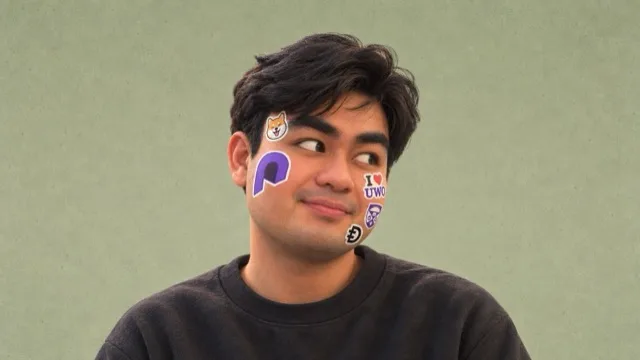
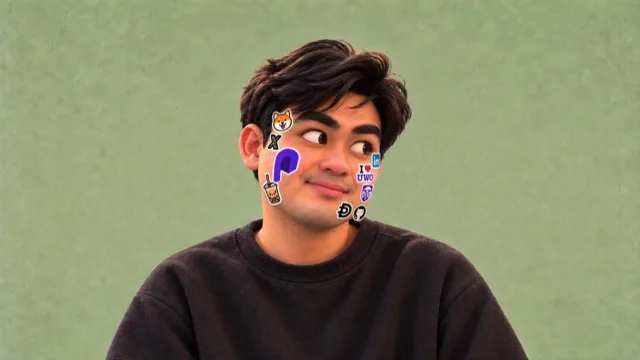
Portrait v2 with nine sticker hotspots including socials and Digital Dash

diff --git a/src/content/stickers.ts b/src/content/stickers.ts
@@ -22,9 +22,15 @@ export type Sticker = {
 }
 
 export const STICKERS: Sticker[] = [
-  { label: 'Penseum', href: 'https://penseum.com', x: 42.6, y: 48.2, w: 7, h: 13.5, hotspot: true },
-  { label: 'Doppel Health', href: 'https://doppel.health/', x: 55.2, y: 65, w: 3.6, h: 6.4, hotspot: true },
-  { label: 'Western University', href: 'https://www.uwo.ca/', x: 58.4, y: 52, w: 5.2, h: 8.6, hotspot: true },
-  { label: 'Ivey', href: 'https://www.ivey.uwo.ca/', x: 58.3, y: 59.3, w: 3.6, h: 6, hotspot: true },
-  { label: 'Journal', href: '/journal', x: 43.2, y: 35.2, w: 4.2, h: 7.4, hotspot: true },
+  // left cheek, top to bottom
+  { label: 'Journal', href: '/journal', x: 44.0, y: 33.5, w: 4.2, h: 7.2, hotspot: true },
+  { label: 'X', href: 'https://x.com/samitkhalsa', x: 42.9, y: 39.4, w: 3.2, h: 5.4, hotspot: true },
+  { label: 'Penseum', href: 'https://penseum.com', x: 44.8, y: 45.4, w: 5.2, h: 10, hotspot: true },
+  { label: 'Boba', href: '/journal', x: 42.6, y: 53.2, w: 3.6, h: 8.4, hotspot: true },
+  // right cheek, top to bottom
+  { label: 'LinkedIn', href: 'https://www.linkedin.com/in/heyimsamit/', x: 58.7, y: 44.2, w: 2.6, h: 4.4, hotspot: true },
+  { label: 'Western University', href: 'https://www.uwo.ca/', x: 57.2, y: 48.2, w: 4.2, h: 6, hotspot: true },
+  { label: 'Ivey', href: 'https://www.ivey.uwo.ca/', x: 57.6, y: 53.6, w: 3.2, h: 6, hotspot: true },
+  { label: 'Digital Dash Dev', href: 'https://digitaldashdev.com', x: 53.9, y: 58.8, w: 2.8, h: 4.8, hotspot: true },
+  { label: 'GitHub', href: 'https://github.com/samkhalsa', x: 56.3, y: 59.2, w: 2.8, h: 4.8, hotspot: true },
 ]
